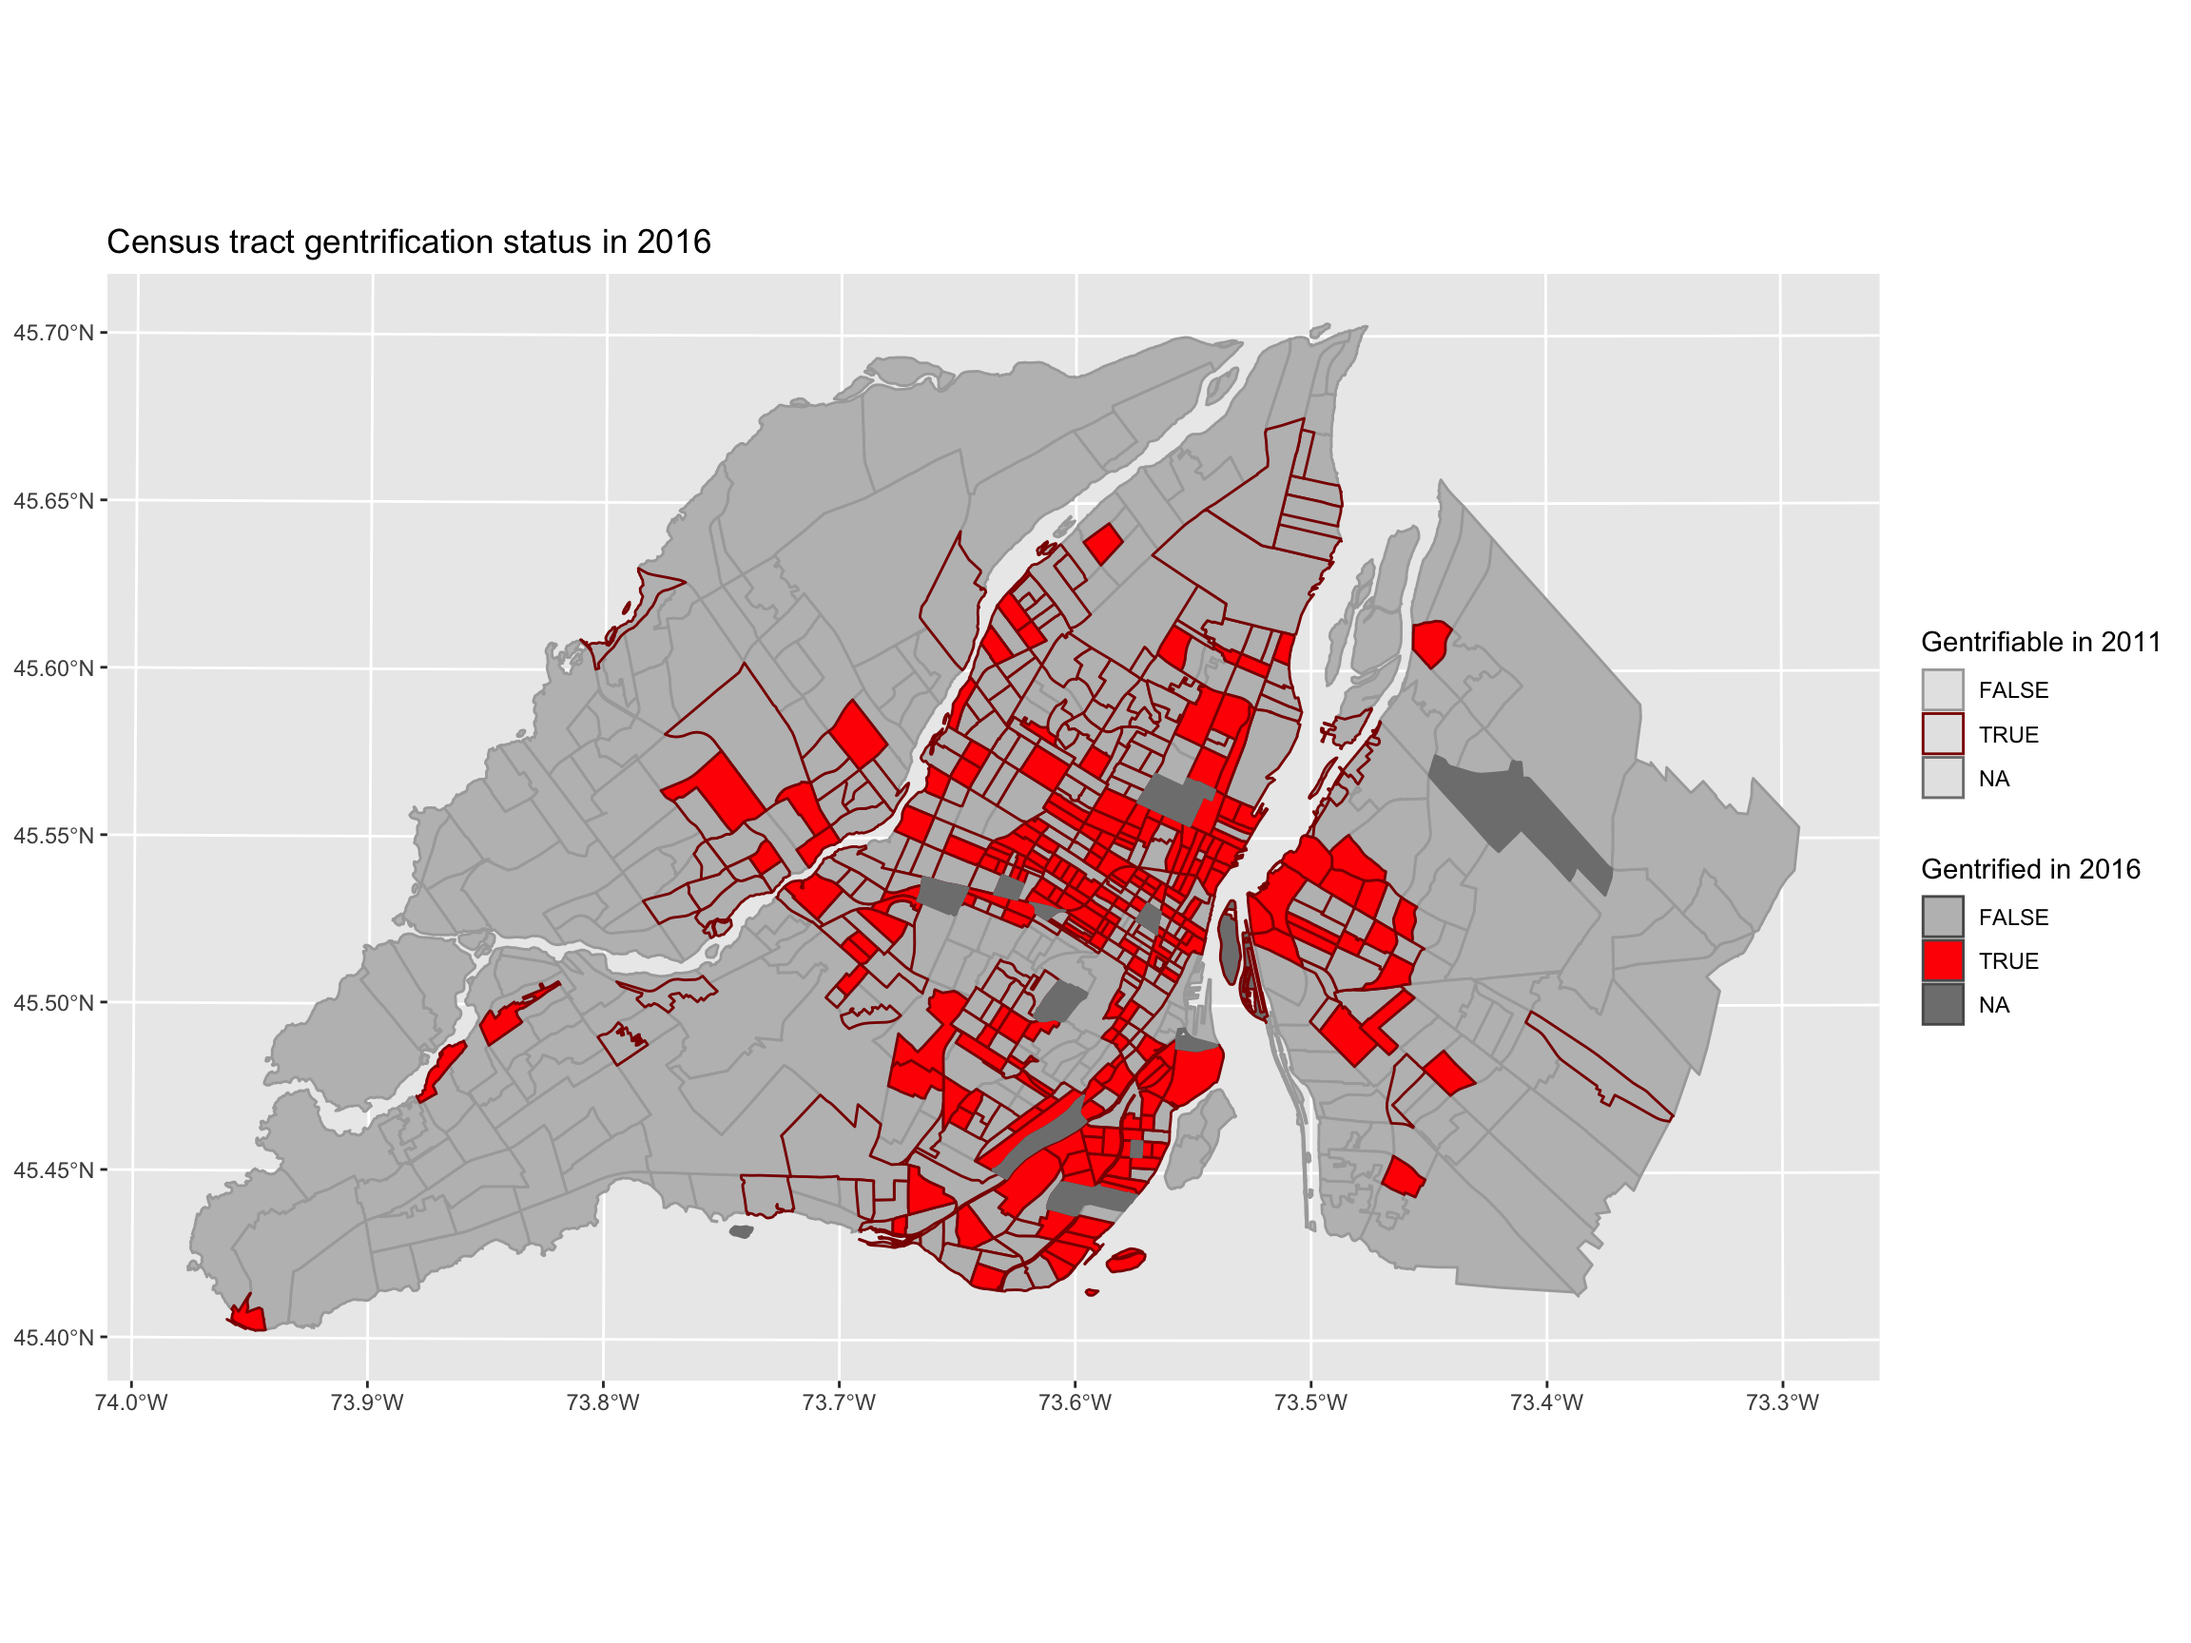
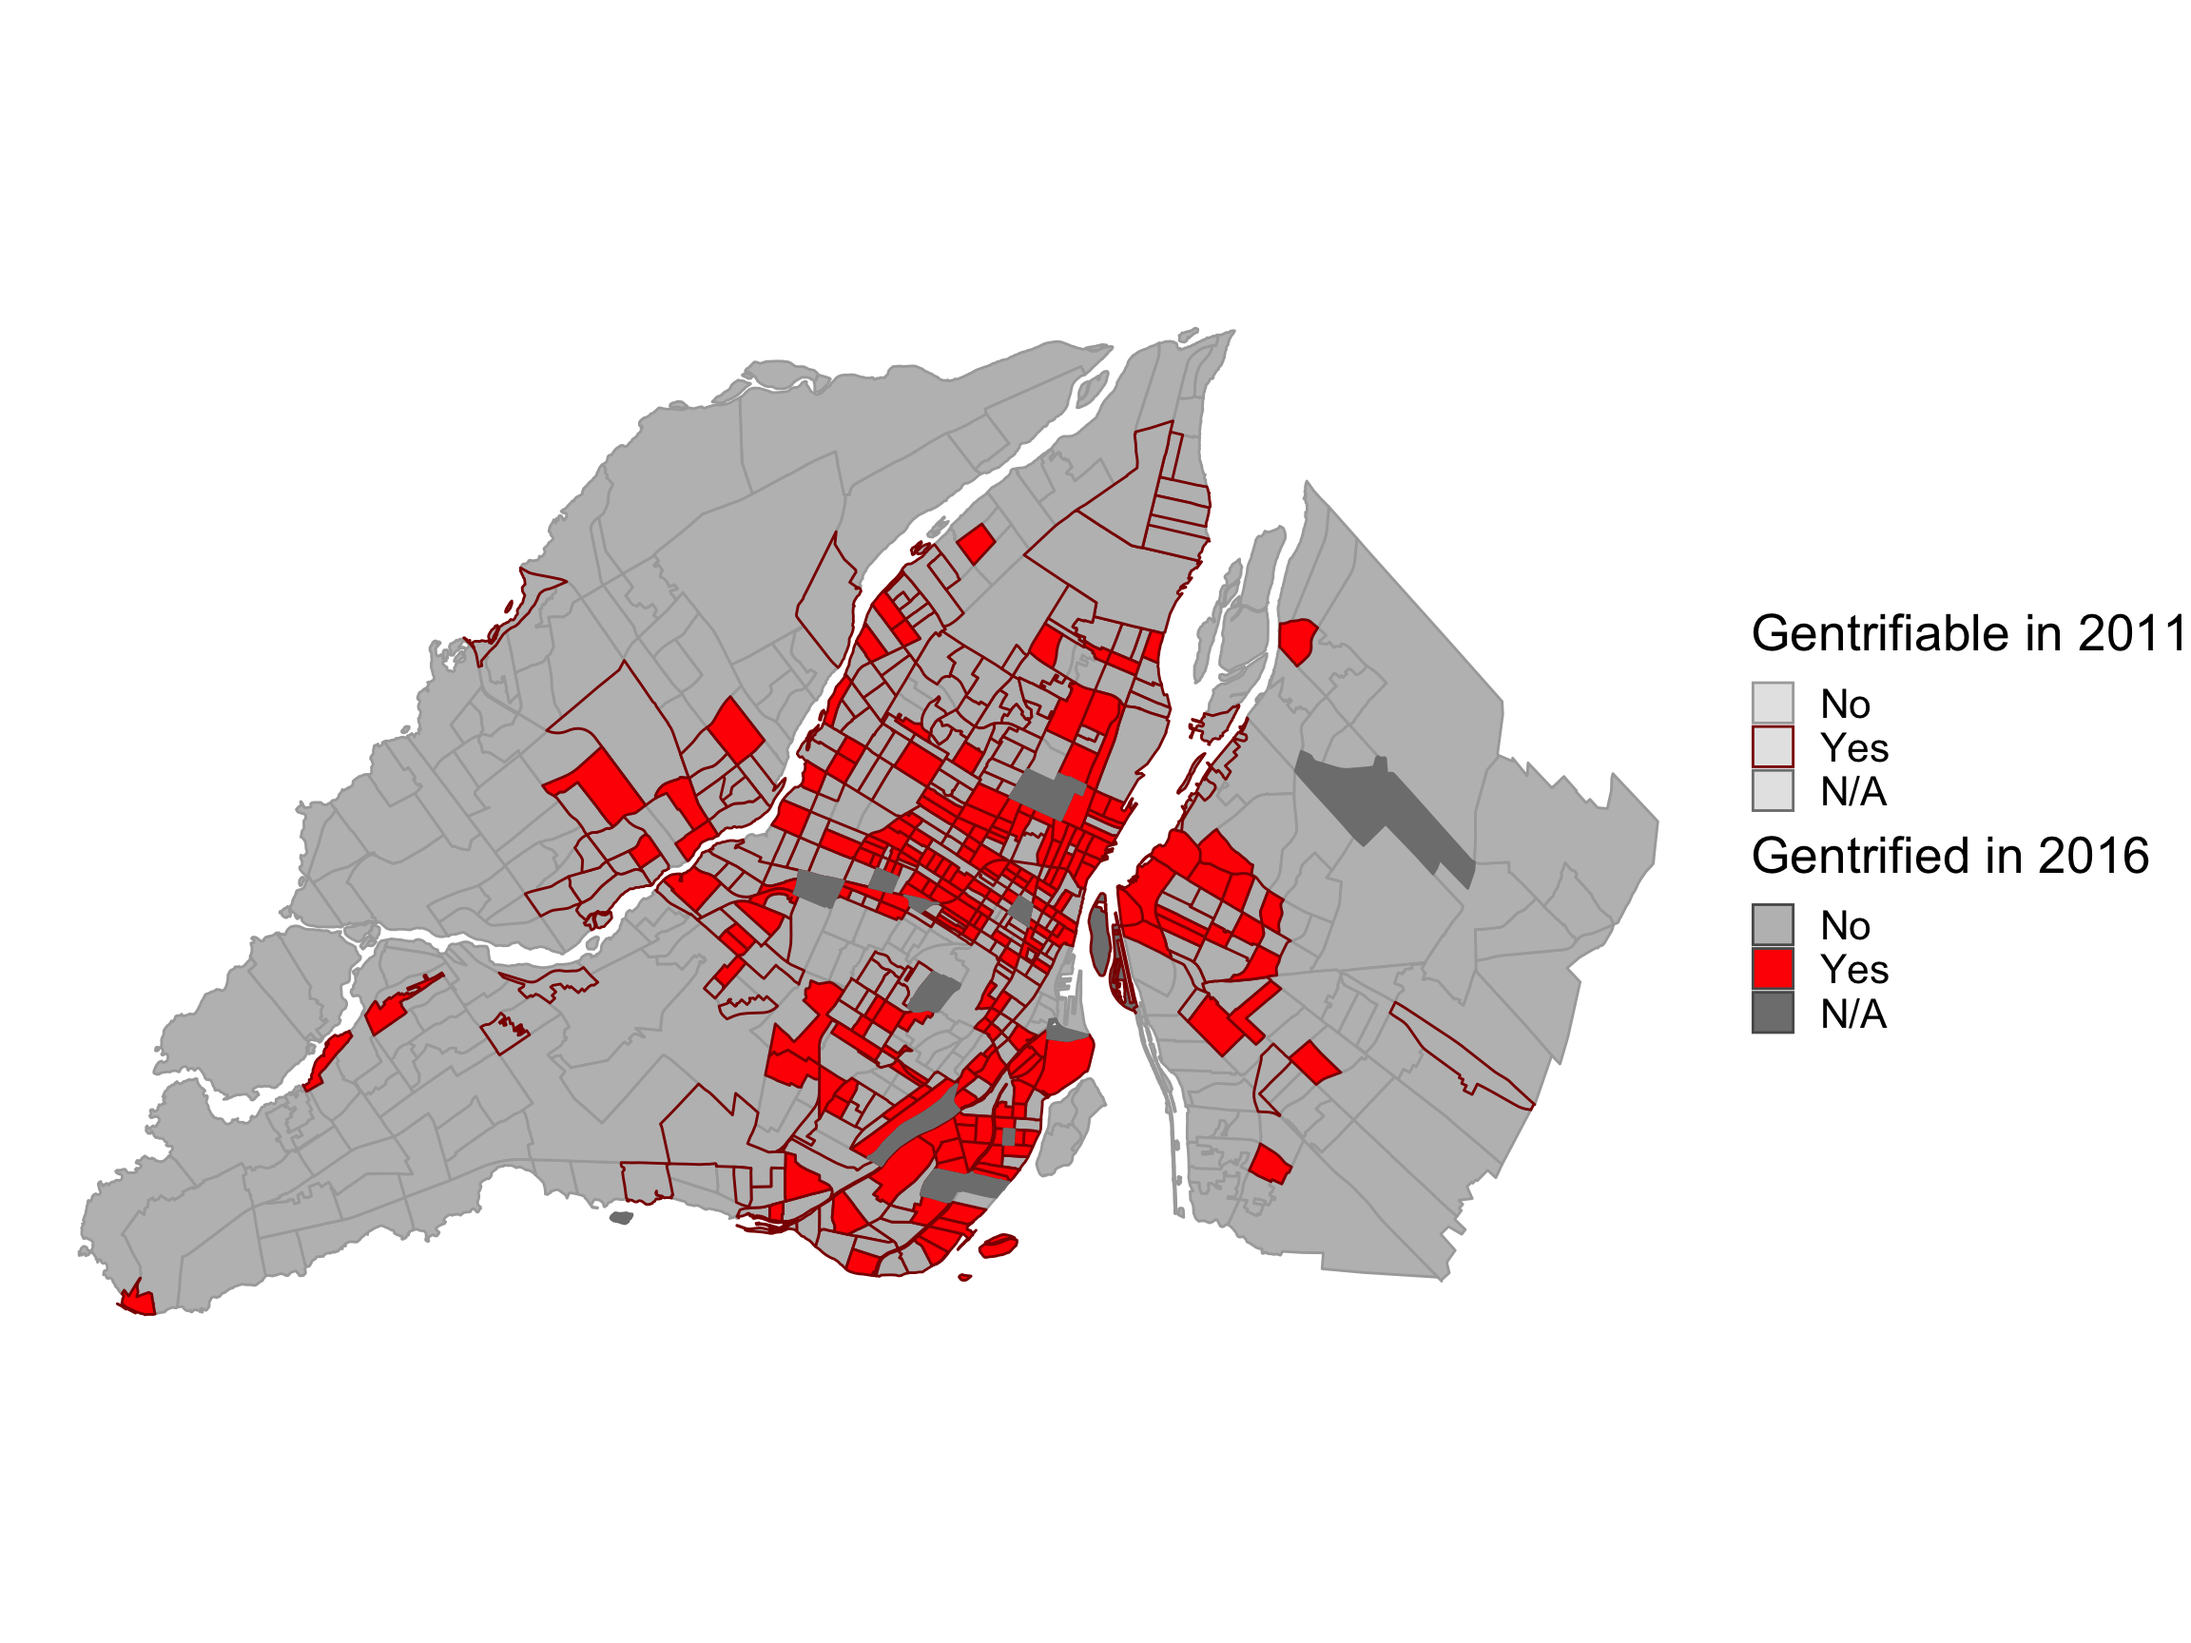
Update on BEI / gentri paper, commit #eee9020

diff --git a/BEI_equity_paper.final.html b/BEI_equity_paper.final.html
@@ -262,7 +262,7 @@ div.tocify {
 
 <h1 class="title toc-ignore">BEI and equity paper analyses | FINAL | Hurdle models</h1>
 <h4 class="author">B. Thierry, Spherelab</h4>
-<h4 class="date">27 September, 2022</h4>
+<h4 class="date">12 October, 2022</h4>
 
 </div>
 
@@ -923,9 +923,10 @@ ding[[&quot;2006&quot;]] &lt;- st_read(&quot;data/gentrified_5years.gpkg&quot;, 
 
 ggplot(data = .ding_map) + 
   geom_sf(aes(fill = gentrified_2016_2011, colour=gentrifiable_2011)) +
-  scale_fill_manual(values = c(&quot;gray&quot;, &quot;red&quot;, &quot;darkgray&quot;), name = &quot;Gentrified in 2016&quot;) +
-  scale_colour_manual(values = c(&quot;darkgray&quot;, &quot;darkred&quot;, &quot;darkgray&quot;), name = &quot;Gentrifiable in 2011&quot;) +
-  labs(title = &quot;Census tract gentrification status in 2016&quot;)</code></pre>
+  scale_fill_manual(labels = c(&#39;No&#39;, &#39;Yes&#39;, &#39;N/A&#39;), values = c(&quot;gray&quot;, &quot;red&quot;, &quot;darkgray&quot;), name = &quot;Gentrified in 2016&quot;) +
+  scale_colour_manual(labels = c(&#39;No&#39;, &#39;Yes&#39;, &#39;N/A&#39;), values = c(&quot;darkgray&quot;, &quot;darkred&quot;, &quot;darkgray&quot;), name = &quot;Gentrifiable in 2011&quot;) +
+  #labs(title = &quot;Census tract gentrification status in 2016&quot;) +
+  theme_void(base_size = 20)</code></pre>
 <p><img src="BEI_equity_paper.final_files/figure-html/ding-load-1.png" width="1152" /></p>
 </div>
 <div id="equity-metrics-low-income-population-and-visible-minority" class="section level2" number="2.5">
@@ -2461,18 +2462,18 @@ smy.cnt &lt;- summary(res.lmm.cnt, details = c(p_value=&quot;Wald&quot;))</code>
 ##  ------------- Likelihood values  -------------
 ##                         logLik
 ## p_v(h) (marginal L): -1733.093</code></pre>
-<pre class="r"><code>ci.lmm.cnt.2 &lt;- confint(res.lmm.zero, &#39;factor(wSCOREMAT.2011.Q)2&#39;)</code></pre>
+<pre class="r"><code>ci.lmm.cnt.2 &lt;- confint(res.lmm.cnt, &#39;factor(wSCOREMAT.2011.Q)2&#39;)</code></pre>
 <pre><code>## lower factor(wSCOREMAT.2011.Q)2 upper factor(wSCOREMAT.2011.Q)2 
-##                       -1.244626                        0.384718</code></pre>
-<pre class="r"><code>ci.lmm.cnt.3 &lt;- confint(res.lmm.zero, &#39;factor(wSCOREMAT.2011.Q)3&#39;)</code></pre>
+##                     -0.37872037                      0.03601714</code></pre>
+<pre class="r"><code>ci.lmm.cnt.3 &lt;- confint(res.lmm.cnt, &#39;factor(wSCOREMAT.2011.Q)3&#39;)</code></pre>
 <pre><code>## lower factor(wSCOREMAT.2011.Q)3 upper factor(wSCOREMAT.2011.Q)3 
-##                      -1.0310502                       0.6543743</code></pre>
-<pre class="r"><code>ci.lmm.cnt.4 &lt;- confint(res.lmm.zero, &#39;factor(wSCOREMAT.2011.Q)4&#39;)</code></pre>
+##                     -0.51144707                     -0.08801317</code></pre>
+<pre class="r"><code>ci.lmm.cnt.4 &lt;- confint(res.lmm.cnt, &#39;factor(wSCOREMAT.2011.Q)4&#39;)</code></pre>
 <pre><code>## lower factor(wSCOREMAT.2011.Q)4 upper factor(wSCOREMAT.2011.Q)4 
-##                       -1.211796                        0.494154</code></pre>
-<pre class="r"><code>ci.lmm.cnt.5 &lt;- confint(res.lmm.zero, &#39;factor(wSCOREMAT.2011.Q)5&#39;)</code></pre>
+##                     -0.37112534                      0.06289214</code></pre>
+<pre class="r"><code>ci.lmm.cnt.5 &lt;- confint(res.lmm.cnt, &#39;factor(wSCOREMAT.2011.Q)5&#39;)</code></pre>
 <pre><code>## lower factor(wSCOREMAT.2011.Q)5 upper factor(wSCOREMAT.2011.Q)5 
-##                      -2.1145351                      -0.3256704</code></pre>
+##                     -0.55434707                     -0.06624171</code></pre>
 <pre class="r"><code>res.lmm.0 &lt;- update(res.lmm.cnt, . ~ . -factor(wSCOREMAT.2011.Q))
 LRT(res.lmm.0, res.lmm.cnt)</code></pre>
 <pre><code>##      chi2_LR df    p_value
@@ -2632,23 +2633,23 @@ round(exp(res.lmm.cnt[[&quot;fixef&quot;]]), 3) %&gt;%
 <tbody>
 <tr class="odd">
 <td align="left">wSCOREMAT.2011.Q.2</td>
-<td align="right">0.288</td>
-<td align="right">1.469</td>
+<td align="right">0.685</td>
+<td align="right">1.037</td>
 </tr>
 <tr class="even">
 <td align="left">wSCOREMAT.2011.Q.3</td>
-<td align="right">0.357</td>
-<td align="right">1.924</td>
+<td align="right">0.600</td>
+<td align="right">0.916</td>
 </tr>
 <tr class="odd">
 <td align="left">wSCOREMAT.2011.Q.4</td>
-<td align="right">0.298</td>
-<td align="right">1.639</td>
+<td align="right">0.690</td>
+<td align="right">1.065</td>
 </tr>
 <tr class="even">
 <td align="left">wSCOREMAT.2011.Q.5</td>
-<td align="right">0.121</td>
-<td align="right">0.722</td>
+<td align="right">0.574</td>
+<td align="right">0.936</td>
 </tr>
 </tbody>
 </table>
